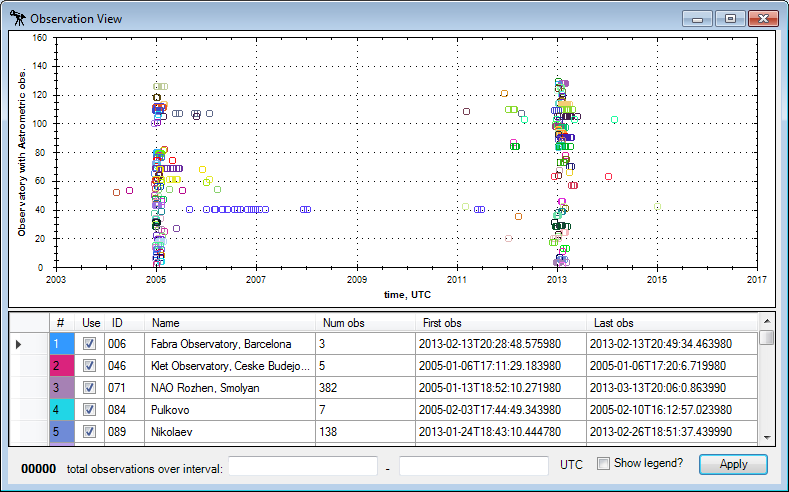
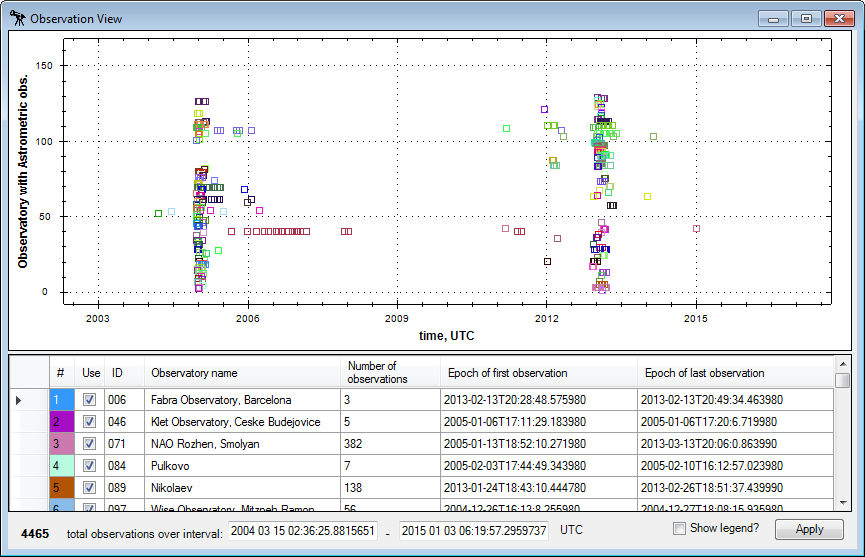
ObsView changed

diff --git a/src/FormOberv.cs b/src/FormOberv.cs
@@ -16,7 +16,8 @@ namespace OrbModUI
         {
             InitializeComponent();
             pane = zg_ObsView.GraphPane;
-            ChangeTimeFrame();
+           
+            //ChangeTimeFrame();
         }
         //
         private void cb_IsShowLegend_CheckedChanged(object sender, EventArgs e)
